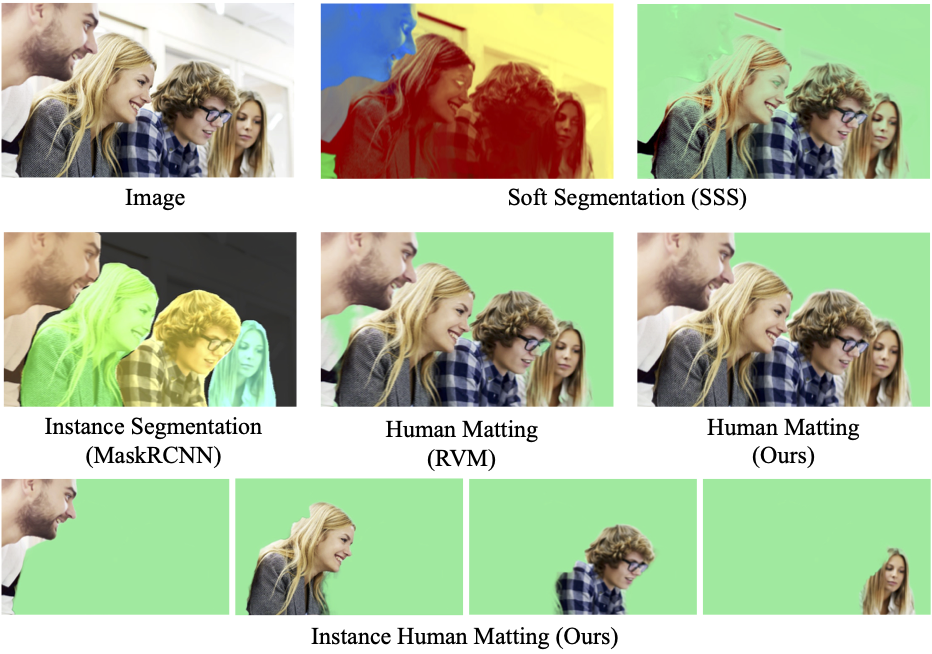
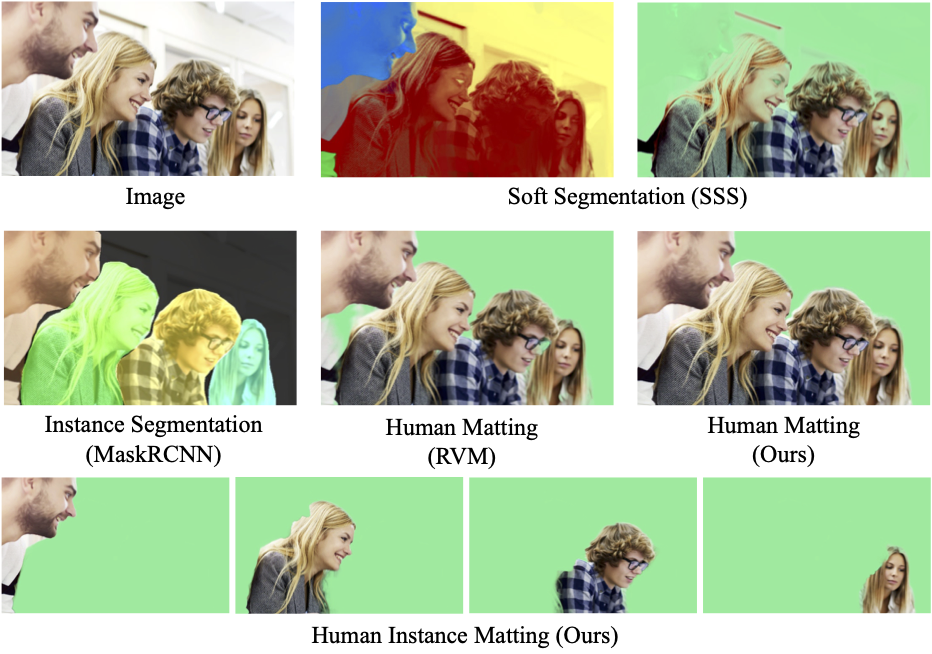
update README.md

diff --git a/README.md b/README.md
@@ -5,17 +5,17 @@ Official repository for *Instance Human Matting via Mutual Guidance and Multi-In
 
 ### Overview
 
-This paper introduces a new matting task called instance human matting (IHM), which requires the pertinent model to automatically predict a precise alpha matte for each human instance.  Straightforward combination of  closely related techniques, namely, instance segmentation, soft segmentation and human/conventional matting, will easily fail in complex cases requiring disentangling mingled colors belonging to multiple instances along hairy and thin boundary structures.  To tackle these technical challenges, we propose an instance human matting framework, called InstMatt, where a novel mutual guidance strategy working in tandem with a multi-instance refinement module is used, for delineating multi-instance relationship among humans with complex and overlapping boundaries if present. A new IHM metric called instance matting quality (IMQ) is proposed, which addresses the absence of a unified and fair means of evaluation emphasizing  both instance recognition and matting quality. Finally, we construct an IHM benchmark for evaluation, which comprises of both synthetic and natural benchmark images. In addition to thorough experimental results on complex cases with multiple and overlapping human instances each has intricate boundaries, preliminary results are presented on general instance matting.
+This paper introduces a new matting task called human instance matting (HIM), which requires the pertinent model to automatically predict a precise alpha matte for each human instance.  Straightforward combination of  closely related techniques, namely, instance segmentation, soft segmentation and human/conventional matting, will easily fail in complex cases requiring disentangling mingled colors belonging to multiple instances along hairy and thin boundary structures.  To tackle these technical challenges, we propose a human instance matting framework, called InstMatt, where a novel mutual guidance strategy working in tandem with a multi-instance refinement module is used, for delineating multi-instance relationship among humans with complex and overlapping boundaries if present. A new instance matting metric called instance matting quality (IMQ) is proposed, which addresses the absence of a unified and fair means of evaluation emphasizing  both instance recognition and matting quality. Finally, we construct an HIM benchmark for evaluation, which comprises of both synthetic and natural benchmark images. In addition to thorough experimental results on complex cases with multiple and overlapping human instances each has intricate boundaries, preliminary results are presented on general instance matting.
 
 ### Benchmark
 
-To provide a general and comprehensive validation on instance matting techniques, we construct an instance matting benchmark,  **IHM2K**, which consists of a synthetic  subset and a natural subset totaling 2,000 images with high-quality matte ground truths. It is organized in the following. Each instance alpha matte is stored in a seperate image.
+To provide a general and comprehensive validation on instance matting techniques, we construct an instance matting benchmark,  **HIM2K**, which consists of a synthetic  subset and a natural subset totaling 2,000 images with high-quality matte ground truths. It is organized in the following. Each instance alpha matte is stored in a seperate image.
 
-Download IHM2K from [Google Drive](https://drive.google.com/file/d/1fjqfF-Zn6GoEsp0jPJqDbcGQsHm2YZ4w/view?usp=sharing), or [Baidu Disk](https://pan.baidu.com/s/1FkCx8It85_w6cuV4yW-7nA) (password: relm).
+Download HIM2K from [Google Drive](https://drive.google.com/file/d/11sUSUNdOTUZboc0zhjMz9Od2siuPTpeQ/view?usp=sharing), or [Baidu Disk](https://pan.baidu.com/s/1T6vZg7wse53I9DfLwCuUag) (password: 82qe).
 
 
 ```
-IHM2K/
+HIM2K/
     images/
         comp/
             xxx.jpg
